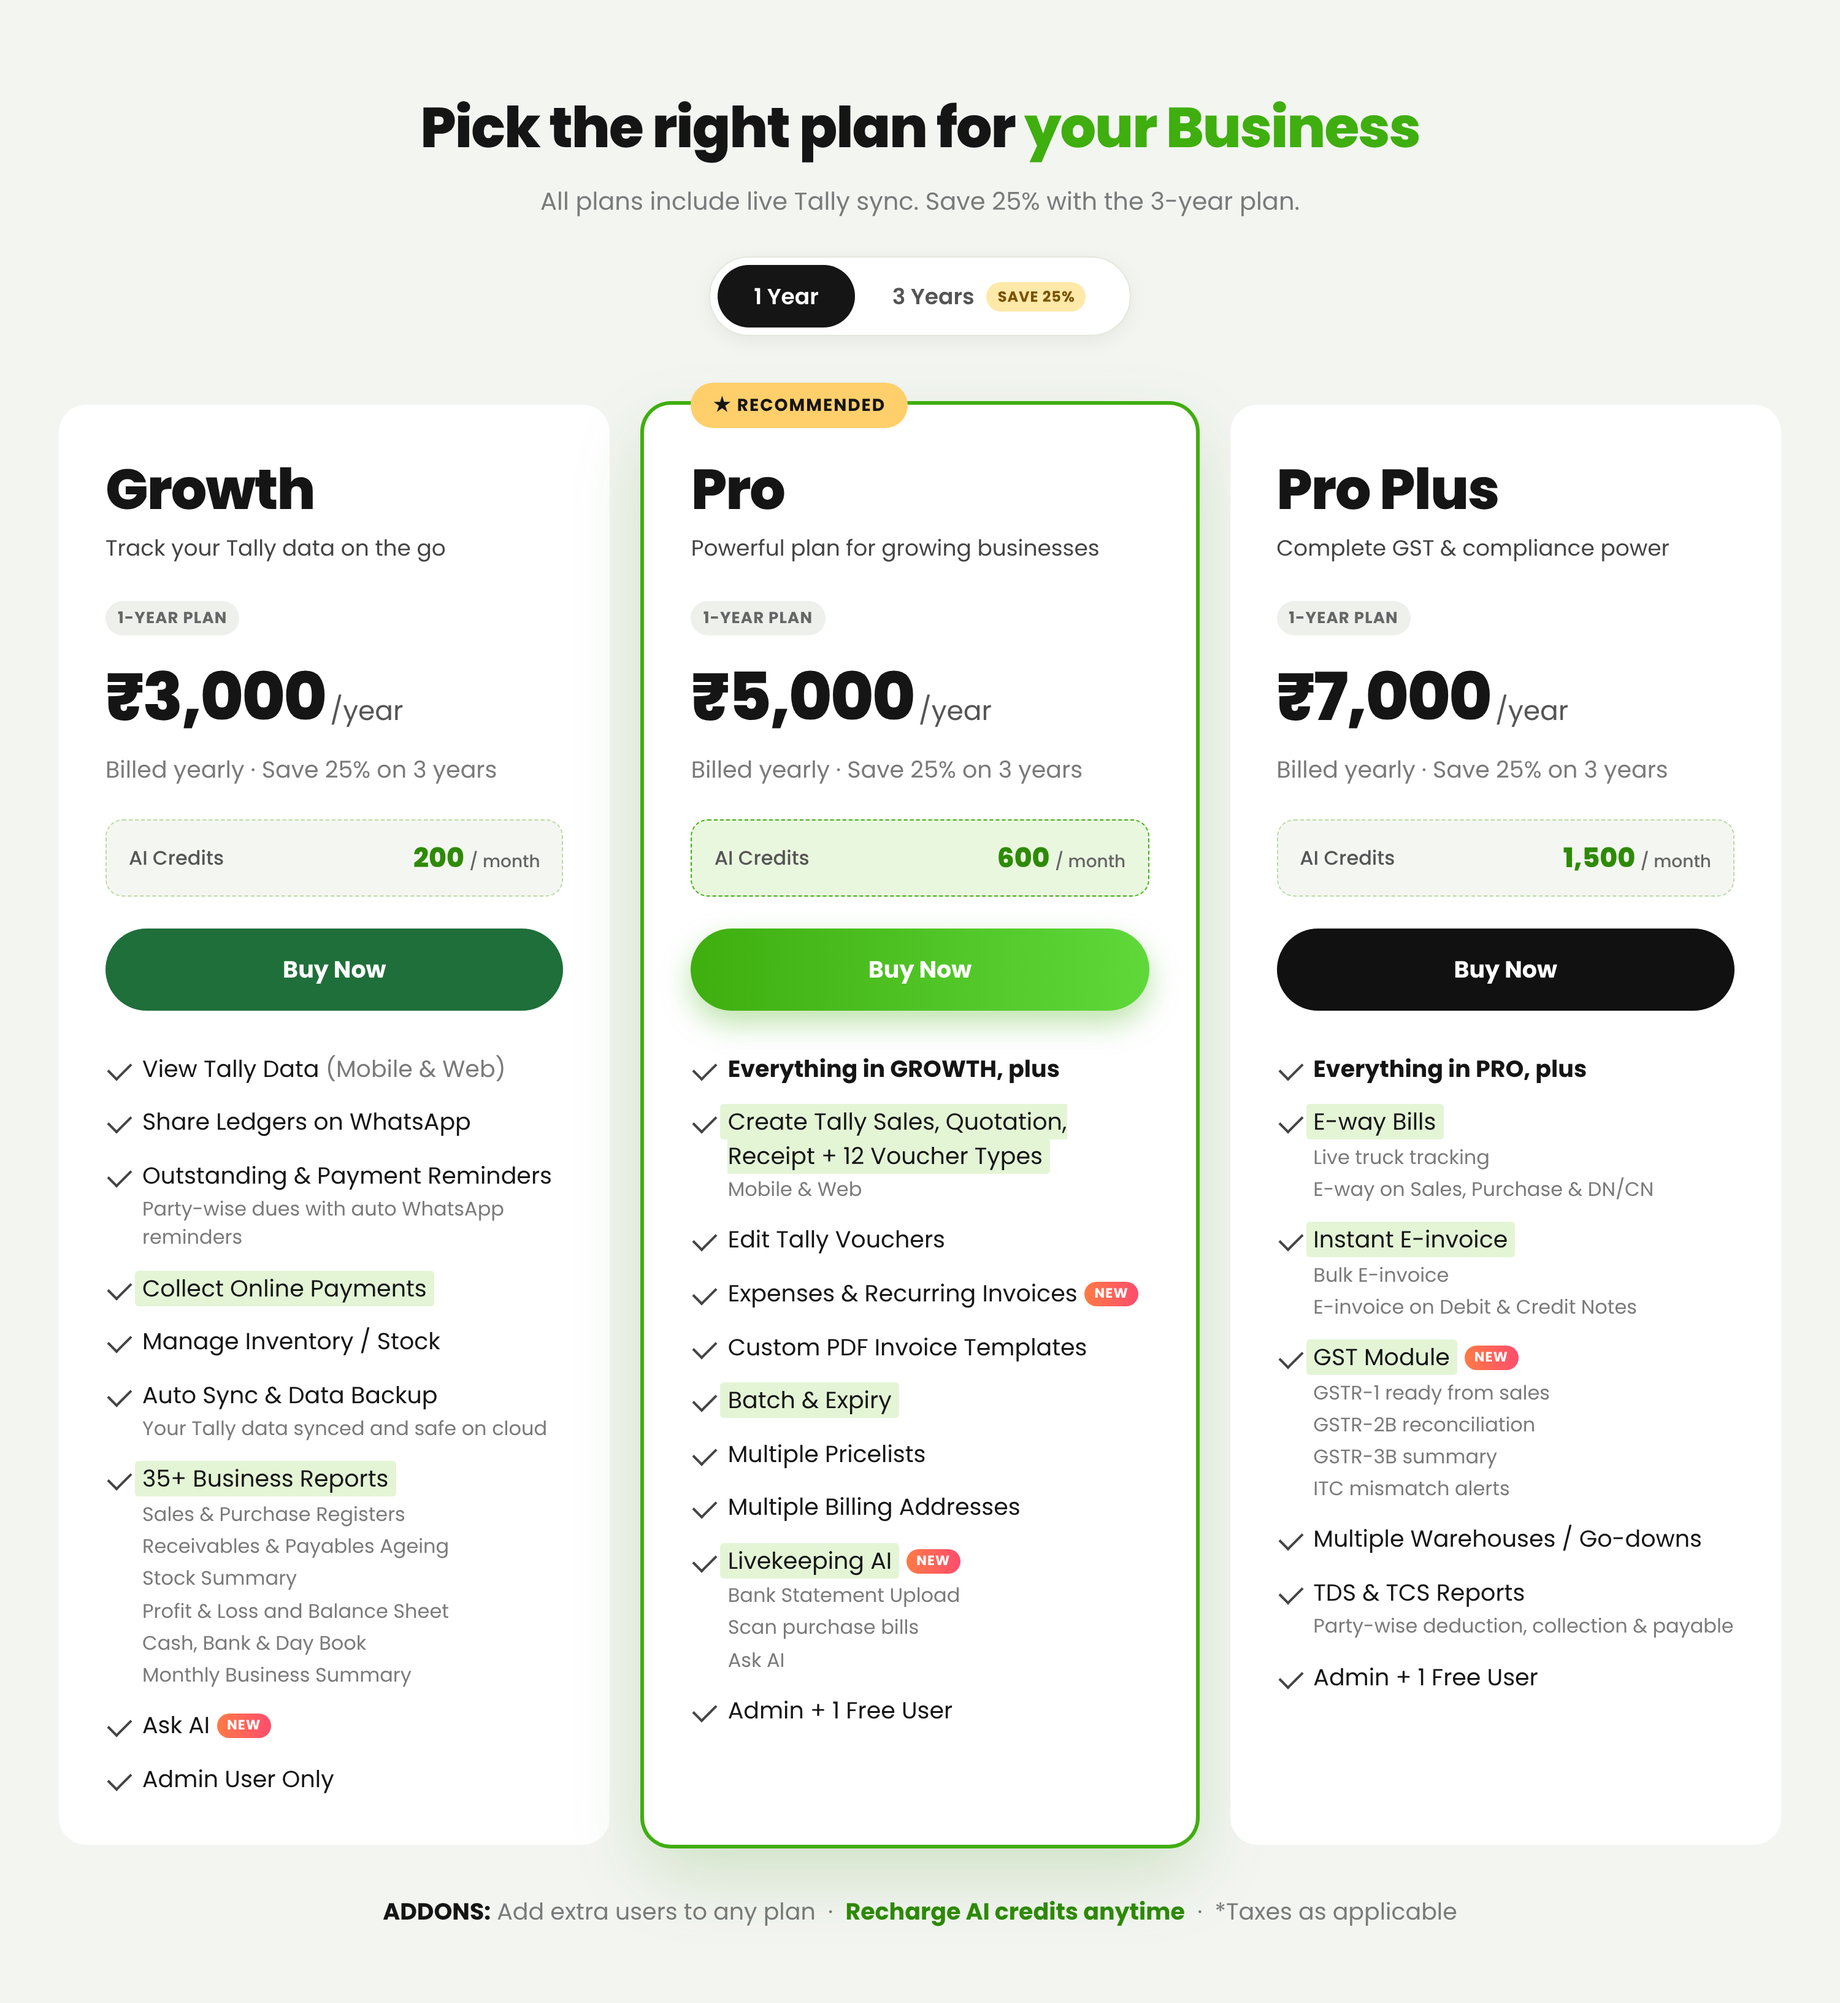
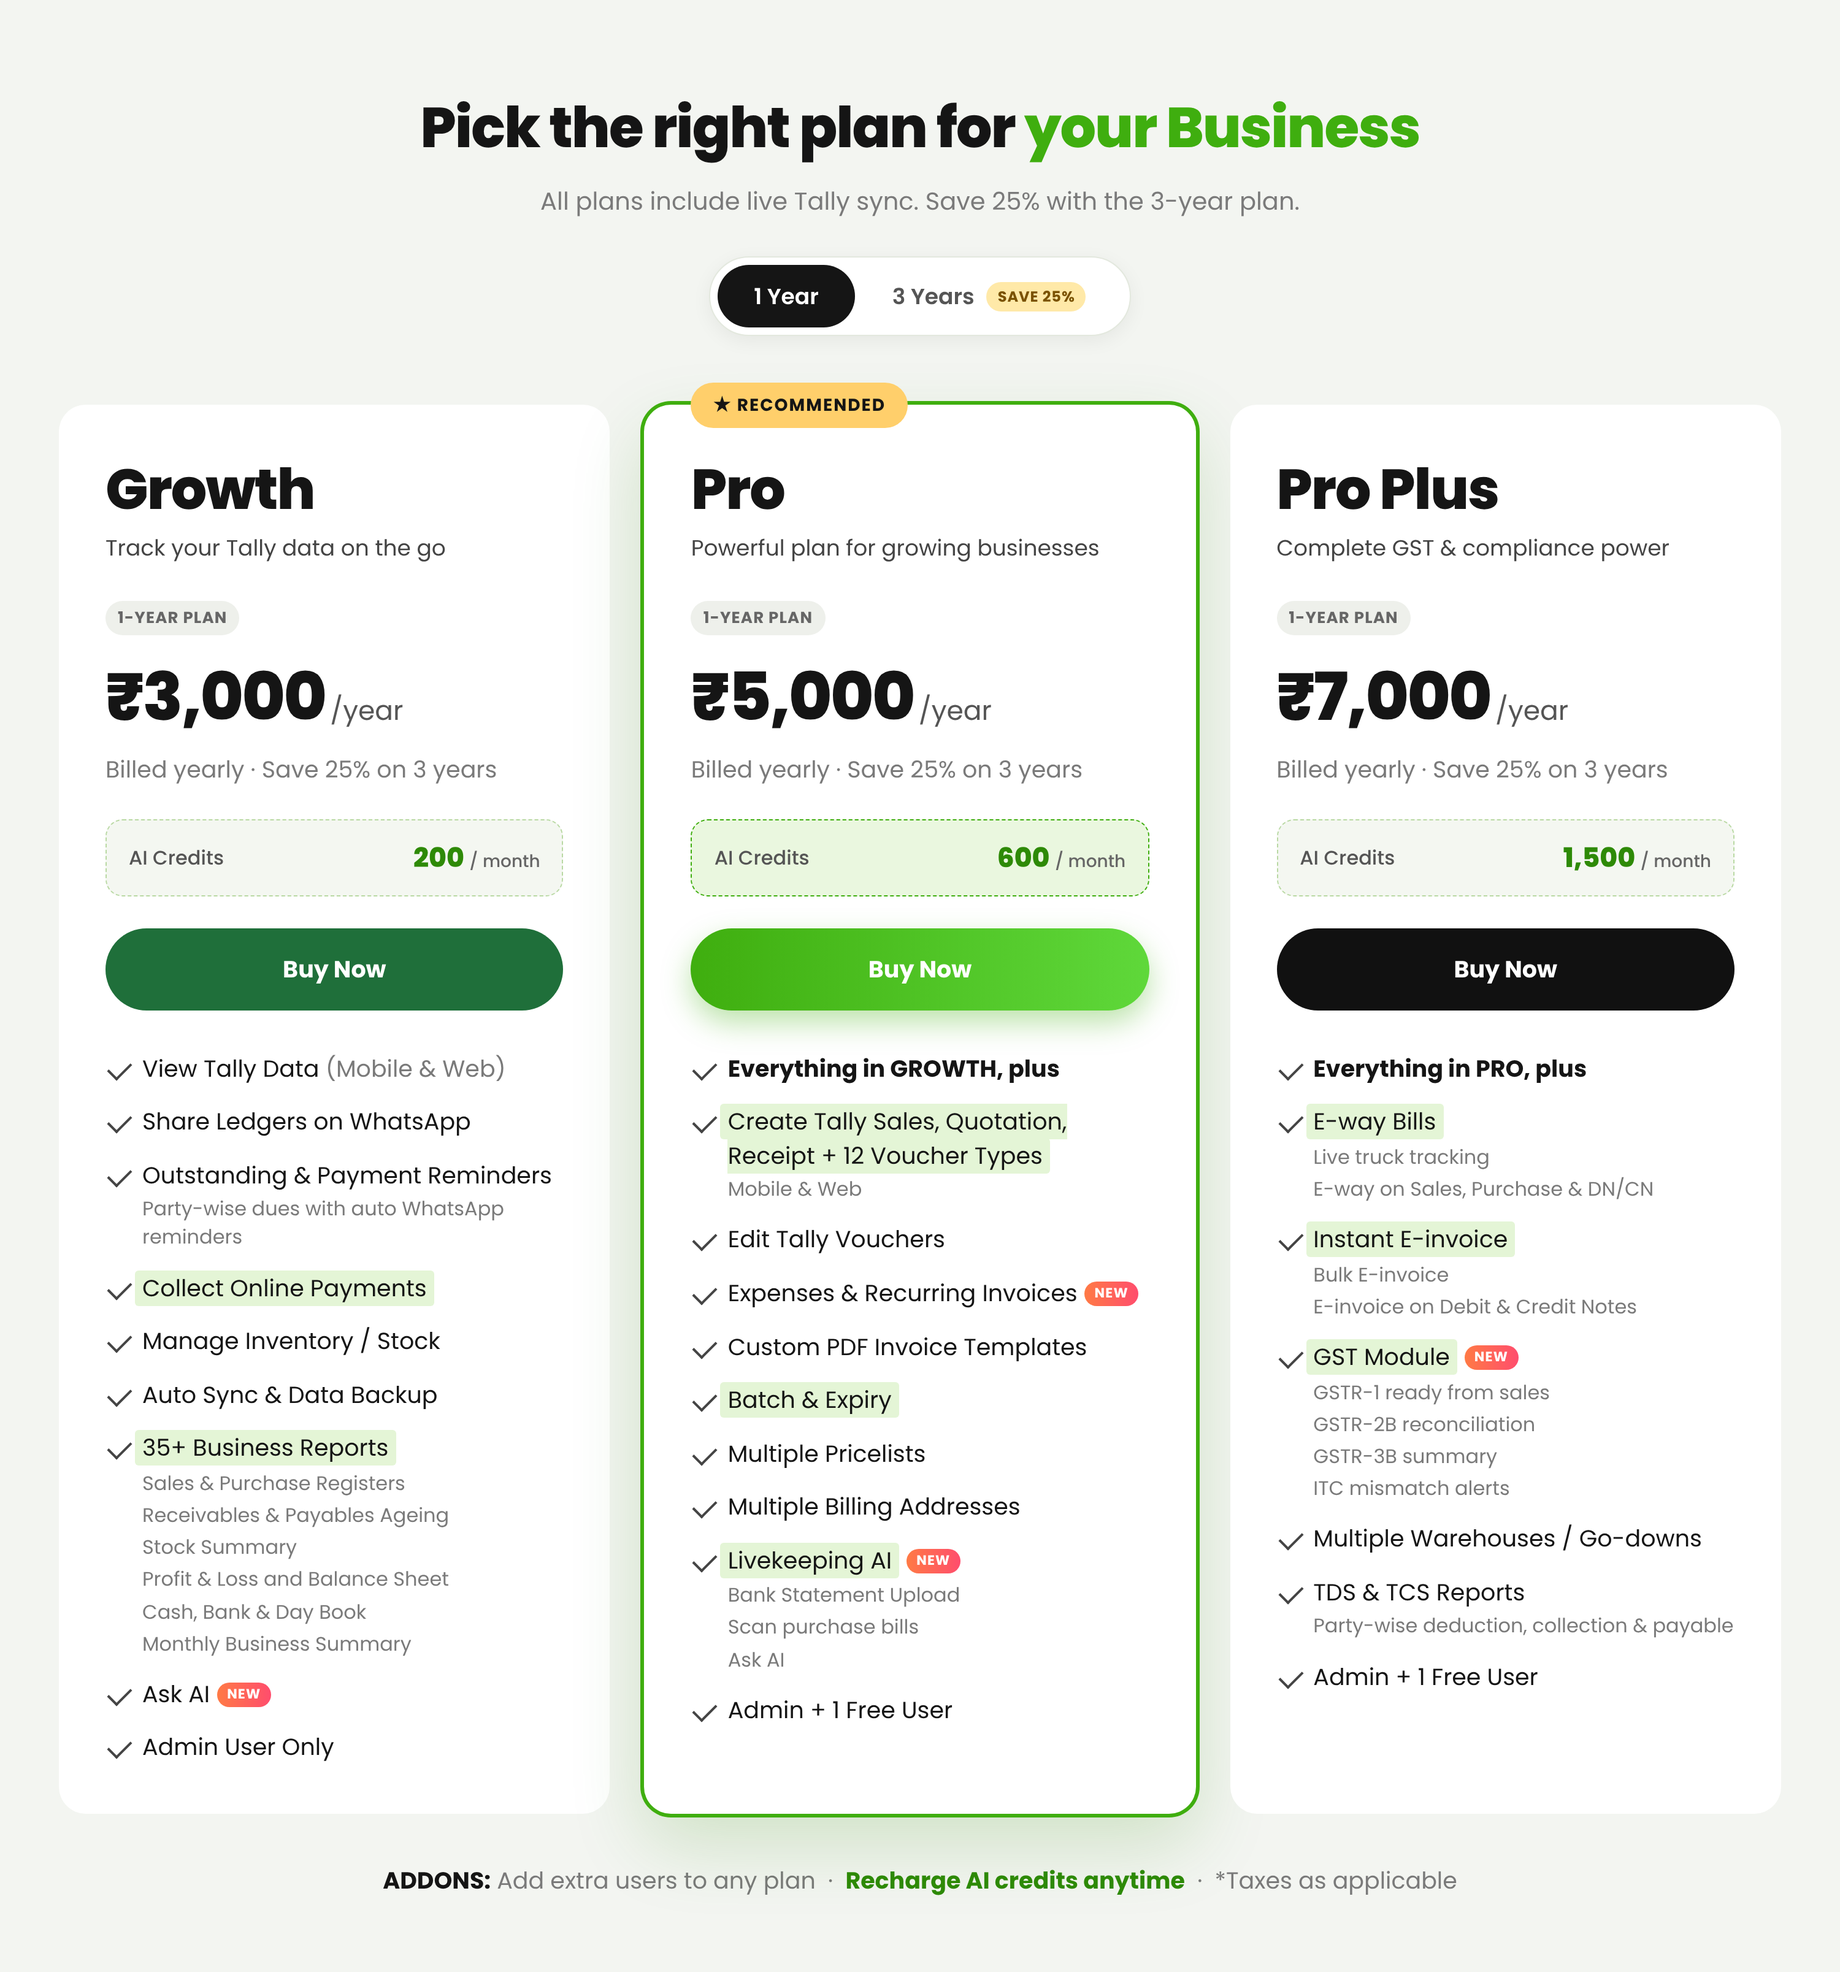
Pricing cards: drop backup sub-text
Claude-Session: https://claude.ai/code/session_01TUFe6273V25gsCzznixesV

diff --git a/livekeeping-pricing/cards.html b/livekeeping-pricing/cards.html
@@ -151,7 +151,7 @@
         <li><div>Outstanding &amp; Payment Reminders<span class="note">Party-wise dues with auto WhatsApp reminders</span></div></li>
         <li><div><span class="hl">Collect Online Payments</span></div></li>
         <li><div>Manage Inventory / Stock</div></li>
-        <li><div>Auto Sync &amp; Data Backup<span class="note">Your Tally data synced and safe on cloud</span></div></li>
+        <li><div>Auto Sync &amp; Data Backup</div></li>
         <li><div><span class="hl">35+ Business Reports</span><span class="note ln">Sales &amp; Purchase Registers</span><span class="note ln">Receivables &amp; Payables Ageing</span><span class="note ln">Stock Summary</span><span class="note ln">Profit &amp; Loss and Balance Sheet</span><span class="note ln">Cash, Bank &amp; Day Book</span><span class="note ln">Monthly Business Summary</span></div></li>
         <li><div>Ask AI<span class="new">NEW</span></div></li>
         <li><div>Admin User Only</div></li>
